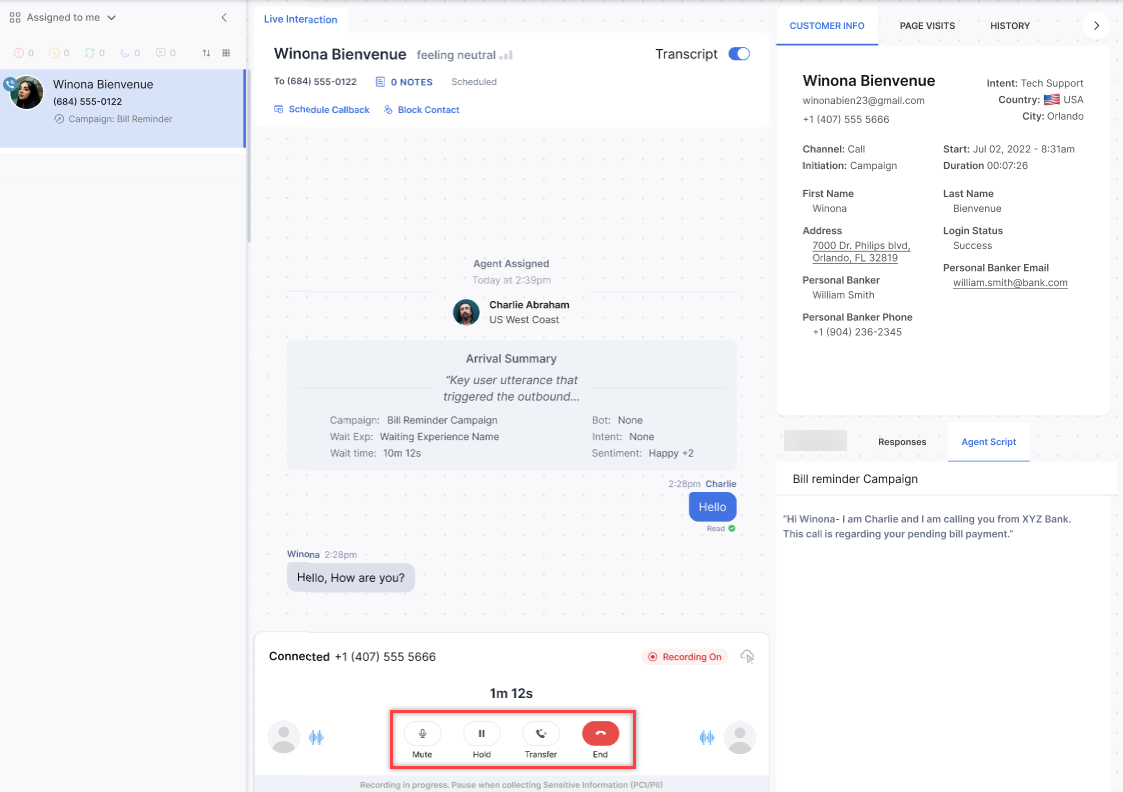
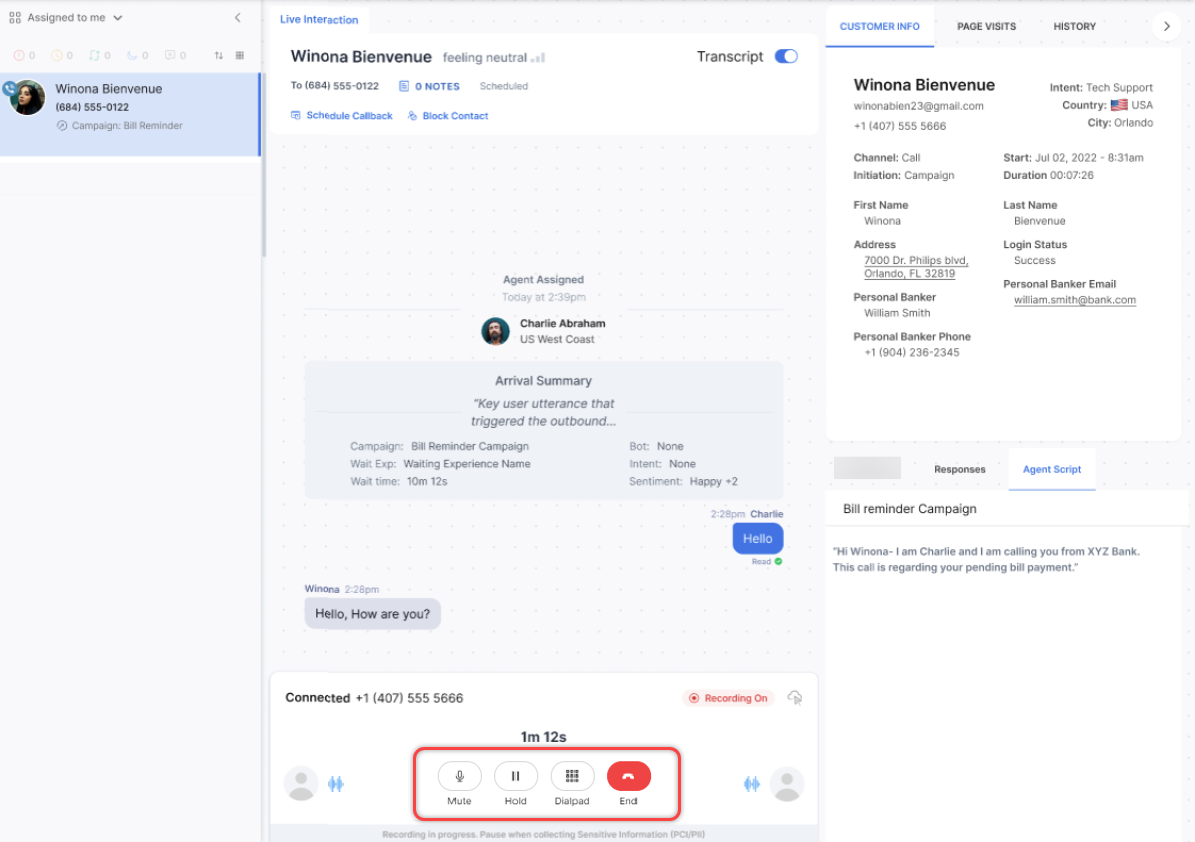
voice campaign updated

diff --git a/docs/xo/contactcenter/campaigns/campaign-management/voice-campaigns.md b/docs/xo/contactcenter/campaigns/campaign-management/voice-campaigns.md
@@ -8,7 +8,7 @@ You can access Campaigns by going to **Contact Center AI** > **Campaigns** > **P
 ## Voice Campaigns
 
 The following details of the voice campaigns are shown in a table:
-<img src="../images/campaigns-top-panel.png" alt="Campaigns Table Top Panel" title="Campaigns Table Top Panel" style="border: 1px solid gray; zoom:100%;">
+<img src="../images/campaigns-top-panel.png" alt="Campaigns Table Top Panel" title="Campaigns Table Top Panel" style="border: 1px solid gray; zoom:80%;">
 
 * **Campaign** - Campaign name and Type.
 * **Actions** - Play/Pause/Replay, Stop, Edit, Clone campaign.
@@ -39,13 +39,15 @@ Campaign managers can customize the dialing pace, allowing them to set the numbe
 To create a campaign when Agentless Dialing Mode is selected:
 
 * Select the **Start Flow** associated with the campaign. [Learn more](../../../flows/create-flows.md#the-start-flows).
-<img src="../images/start-flow.png" alt="Start Flow" title="Start Flow" style="border: 1px solid gray; zoom:100%;">
+<img src="../images/start-flow.png" alt="Start Flow" title="Start Flow" style="border: 1px solid gray; zoom:70%;">
 
     !!! Note
 
         * You can turn on Answering Machine Detection toggle if you want the system to determine whether the outbound call was received by an answering machine.
 
         * Using the agentless dialer, you can configure the [Automation Node](../../../flows/node-types/automation.md) making this dialer a differentiator from our competitors. 
+
+## Auto Dialers
 
 ### Progressive Dialer
 
@@ -58,18 +60,18 @@ The dialer efficiently manages lead allocation based on agent availability. It t
 To create a campaign when Progressive Dialing Mode is selected:
 
 * Select the **Queue** to which the calls will be routed. [Learn more](../../routing/queues/queue-management.md)  
-<img src="../images/select-queue.png" alt="Select Queue" title="Select Queue" style="border: 1px solid gray; zoom:100%;">
+<img src="../images/select-queue.png" alt="Select Queue" title="Select Queue" style="border: 1px solid gray; zoom:70%;">
 
     !!! Note
 
         You can turn on Answering Machine Detection toggle if you want the system to determine whether the outbound call was received by an answering machine.
 
-Progressive Dialer Call Handling
+#### Progressive Dialer Call Handling
 
 Once the dialer selects a contact from the list, it dials the number and upon successful connection with the contact, the interaction is assigned to an agent. The CUSTOMER INFO widget displays the customer's information. the interaction appears on the [Conversation Tray](../../../console/conversation-tray.md) along with the campaign name.  
 <img src="../images/dialing.png" alt="Dialing" title="Dialing" style="border: 1px solid gray; zoom:60%;">
 
-During the call the agent can Mute, place the call on Hold, Transfer, or end the interaction.  
+During the call the agent can Mute, place the call on Hold, or end the interaction.  
 <img src="../images/call-connected.png" alt="Call Connected" title="Call Connected" style="border: 1px solid gray; zoom:60%;">
 
 Dispositions are displayed to the agent when the call ends.  
@@ -104,7 +106,7 @@ To create a campaign when Preview Dialing Mode is selected:
 The agent is presented with one contact with an option for the Agent to Dial the number or Skip. Agents have a default 30-second timer to either dial or skip the call. If the agent dials within 30 seconds, the call is dialed to the contact. If the agent skips within 30 seconds, the interaction is removed from the agent and reassigned. Skipped contacts follow the retry logic based on the maximum attempts configured. The maximum number of skips allowed per agent can be configured for each campaign. Once the skip limit is reached, the skip button will no longer be available for that campaign instance. If the agent neither dials nor skips within the 30-second window, the call will be automatically dialed. The CUSTOMER INFO widget displays the customer's information. The interaction appears on the [Conversation Tray](../../../console/conversation-tray.md) along with the campaign name from which the call or contact is generated.  
 <img src="../images/preview-call.png" alt="Preview Call" title="Preview Call" style="border: 1px solid gray; zoom:70%;">
 
-Once an agent dials a number, that number becomes unavailable to other agents. When a call is connected, the number is not dialed again for the duration of the campaign. During the call the agent can Mute, place the call on Hold, Transfer, or end the interaction. All outbound calls are recorded in the same way as inbound calls to ensure quality and compliance.  
+Once an agent dials a number, that number becomes unavailable to other agents. When a call is connected, the number is not dialed again for the duration of the campaign. During the call the agent can Mute, place the call on Hold, or end the interaction. All outbound calls are recorded in the same way as inbound calls to ensure quality and compliance.  
 <img src="../images/call-options.png" alt="Call Options" title="Call Options" style="border: 1px solid gray; zoom:70%;">
 
 Dispositions are displayed to the agent when the call ends.  
@@ -121,13 +123,13 @@ Steps to create Voice campaigns:
 
 2. The **New Voice Campaign** dialog box is displayed. Under the **General** tab, enter the following details:
     * **Campaign Name**: Enter a name for the campaign.
-    <img src="../images/campaign-name.png" alt="Campaign Name" title="Campaign Name" style="border: 1px solid gray; zoom:100%;">
+    <img src="../images/campaign-name.png" alt="Campaign Name" title="Campaign Name" style="border: 1px solid gray; zoom:80%;">
     * **Description**: A description of the campaign.
-    <img src="../images/description.png" alt="Campaign Description" title="Campaign Description" style="border: 1px solid gray; zoom:100%;">
+    <img src="../images/description.png" alt="Campaign Description" title="Campaign Description" style="border: 1px solid gray; zoom:80%;">
     * **Contact Lists**: Select the **Contact Lists** that will be dialed, for the campaign from the drop-down list and then click **Done**.
     <img src="../images/contact-list.png" alt="Select Contact Lists" title="Select Contact Lists" style="border: 1px solid gray; zoom:100%;">
     * Select the **DNC List** from the drop-down.
-    <img src="../images/dnc-list.png" alt="DNC List" title="DNC List" style="border: 1px solid gray; zoom:100%;">
+    <img src="../images/dnc-list.png" alt="DNC List" title="DNC List" style="border: 1px solid gray; zoom:80%;">
 
         !!! Notes
 
@@ -135,23 +137,23 @@ Steps to create Voice campaigns:
             * The contact list is automatically scrubbed against the DNC list after the Campaign is saved.
 
     * Select the **Priority** from the drop-down list.
-    <img src="../priority-list.png" alt="Priority" title="Priority" style="border: 1px solid gray; zoom:100%;">
+    <img src="../priority-list.png" alt="Priority" title="Priority" style="border: 1px solid gray; zoom:80%;">
     * Select the **Dialing Mode** from the drop-down list.
-    <img src="../images/dialing-mode.png" alt="Dialing Mode" title="Dialing Mode" style="border: 1px solid gray; zoom:100%;">
+    <img src="../images/dialing-mode.png" alt="Dialing Mode" title="Dialing Mode" style="border: 1px solid gray; zoom:80%;">
 
 3. Under the **Outreach Strategy** tab, enter the following details:
     * **Caller ID**: Select the caller ID to be displayed for the campaign.
     <img src="../images/caller-id.png" alt="Caller ID" title="Caller ID" style="border: 1px solid gray; zoom:100%;">
     * **Dialing Order**: Choose the order of dialing the phone numbers.
-    <img src="../images/dialing-order.png" alt="Dialing Order" title="Dialing Order" style="border: 1px solid gray; zoom:100%;">
+    <img src="../images/dialing-order.png" alt="Dialing Order" title="Dialing Order" style="border: 1px solid gray; zoom:80%;">
     * **Max Attempts Per Contact**: Enter the count for the maximum number of attempts by the dialer to call each phone number in the campaign.
-    <img src="../images/max-attempts-per-contact.png" alt="Max Attempts Per Contact" title="Max Attempts Per Contact" style="border: 1px solid gray; zoom:100%;">
+    <img src="../images/max-attempts-per-contact.png" alt="Max Attempts Per Contact" title="Max Attempts Per Contact" style="border: 1px solid gray; zoom:80%;">
     * **Default Retry Period**: Select the retry duration (in minutes) in case of an unsuccessful connection with a contact.
-    <img src="../images/default-retry-period.png" alt="Default Retry Period" title="Defult Retry Period" style="border: 1px solid gray; zoom:100%;">
+    <img src="../images/default-retry-period.png" alt="Default Retry Period" title="Defult Retry Period" style="border: 1px solid gray; zoom:80%;">
     * **Max Ring Time**: Select the duration (in seconds) that a call will ring until it is disconnected.
-    <img src="../images/max-ring-time.png" alt="Max Ring Time" title="Max Ring Time" style="border: 1px solid gray; zoom:100%;">
+    <img src="../images/max-ring-time.png" alt="Max Ring Time" title="Max Ring Time" style="border: 1px solid gray; zoom:80%;">
     * **Contactable Timings**: Add the contactable timings (day of the week/time) when the dialer will dial the calls.
-    <img src="../images/contactable-timings.png" alt="Contactable Timings" title="Contactable Timings" style="border: 1px solid gray; zoom:100%;">
+    <img src="../images/contactable-timings.png" alt="Contactable Timings" title="Contactable Timings" style="border: 1px solid gray; zoom:80%;">
 
         !!! Note
 
@@ -166,13 +168,13 @@ Scheduling allows precise control over when your messages will be delivered. You
 Steps to schedule a Campaign:
 
 1. Click the **Schedule** tab and turn on the **Schedule Campaign** toggle.
-<img src="../images/schedule-campaign-toggle.png" alt="Schedule campaign Toggle" title="Schedule Campaign Toggle" style="border: 1px solid gray; zoom:100%;">
+<img src="../images/schedule-campaign-toggle.png" alt="Schedule campaign Toggle" title="Schedule Campaign Toggle" style="border: 1px solid gray; zoom:80%;">
 
 2. Select the campaign **Start Date & Time**. **End Date & Time** is optional.
-<img src="../images/start-and-end-time.png" alt="Start & End time" title="Start & End Time" style="border: 1px solid gray; zoom:100%;">
+<img src="../images/start-and-end-time.png" alt="Start & End time" title="Start & End Time" style="border: 1px solid gray; zoom:80%;">
 
 3. Select the **Time Zone** in which the campaign will be dialed.
-<img src="../images/timezone-dropdown.png" alt="Timezone" title="Timezone" style="border: 1px solid gray; zoom:100%;">
+<img src="../images/timezone-dropdown.png" alt="Timezone" title="Timezone" style="border: 1px solid gray; zoom:80%;">
 
 4. Turn on the Recurrence toggle if you want the campaign to recur at defined intervals. You can select from the following options:
     1. Daily,
@@ -189,7 +191,7 @@ Steps to schedule a Campaign:
 
 5. Turning on the Allow Recurrence Precedence toggle will give the recurrence start and end time precedence over Contactable timings.
 For example, if Contactable Timings are 9:00 AM to 6:00 PM but the user selects Recurrence Start Time as 8:00 AM, the campaign will start contacting from 8:00 AM.
-<img src="../images/allow-recurrence-precedence.png" alt="Allow Recurrence Precedence" title="Allow Recurrence Precedence" style="border: 1px solid gray; zoom:100%;">
+<img src="../images/allow-recurrence-precedence.png" alt="Allow Recurrence Precedence" title="Allow Recurrence Precedence" style="border: 1px solid gray; zoom:80%;">
 
 6. Click **Save**. A campaign is created as per the configured schedule.
 
@@ -206,10 +208,10 @@ For example, if Contactable Timings are 9:00 AM to 6:00 PM but the user selects 
 ### Stop a Scheduled Campaign
 
 Click the **Stop** button under actions. Stopping a scheduled campaign will end the instance of that campaign.
-<img src="../images/stop-scheduled-campaign.png" alt="Stop Button" title="Stop Button" style="border: 1px solid gray; zoom:100%;">
+<img src="../images/stop-scheduled-campaign.png" alt="Stop Button" title="Stop Button" style="border: 1px solid gray; zoom:80%;">
 
 A confirmation message is displayed. Click **Stop**.
-<img src="../images/stop-scheduled-campaign-confirmation.png" alt="Stop Scheduled campaign Confirmation" title="Stop Scheduled Campaign Confirmation" style="border: 1px solid gray; zoom:100%;">
+<img src="../images/stop-scheduled-campaign-confirmation.png" alt="Stop Scheduled campaign Confirmation" title="Stop Scheduled Campaign Confirmation" style="border: 1px solid gray; zoom:80%;">
 
 ### Edit a Voice Campaign
 
@@ -218,10 +220,10 @@ Editing a voice campaign allows you to make changes to the campaign as per your 
 Steps to edit a campaign:
 
 1. Click the **Ellipsis** (**⋮**) icon beside the campaign name and click **Edit**.
-<img src="../images/edit-campaign-button.png" alt="Edit Campaign Button" title="Edit Campaign Button" style="border: 1px solid gray; zoom:100%;">
+<img src="../images/edit-campaign-button.png" alt="Edit Campaign Button" title="Edit Campaign Button" style="border: 1px solid gray; zoom:80%;">
 
 2. A pop-up window is displayed. Do the required changes and click **Save**.
-<img src="../images/edit-campaign-window.png" alt="Edit and Save Campaign" title="Edit and save Campaign" style="border: 1px solid gray; zoom:100%;">
+<img src="../images/edit-campaign-window.png" alt="Edit and Save Campaign" title="Edit and save Campaign" style="border: 1px solid gray; zoom:80%;">
 
     !!! Note
 
@@ -249,10 +251,10 @@ Stopping a voice campaign resets the data, and a new instance of the campaign is
 Steps to stop a campaign:
 
 1. Click the **Stop** button under **ACTIONS** for the campaign you want to stop.
-<img src="../images/stop-campaign-button.png" alt="Stop Campaign Button" title="Stop Campaign Button" style="border: 1px solid gray; zoom:100%;">
+<img src="../images/stop-campaign-button.png" alt="Stop Campaign Button" title="Stop Campaign Button" style="border: 1px solid gray; zoom:80%;">
 
 2. A **Stop Campaign** confirmation pop-up window is displayed. Click **Stop**.
-<img src="../images/stop-campaign-confirmation.png" alt="Stop Campaign Confirmation" title="Stop Campaign Confirmation" style="border: 1px solid gray; zoom:100%;">
+<img src="../images/stop-campaign-confirmation.png" alt="Stop Campaign Confirmation" title="Stop Campaign Confirmation" style="border: 1px solid gray; zoom:80%;">
 
 ### Delete a Voice Campaign
 
@@ -261,15 +263,15 @@ You can delete a voice campaign if the campaign has served its purpose or is no 
 Steps to delete a campaign:
 
 1. Click the **Ellipsis**(**⋮**) icon beside the campaign name and click **Delete**.
-<img src="../images/delete-campaign-button.png" alt="Delete Campaign Button" title="Delete Campaign Button" style="border: 1px solid gray; zoom:100%;">
+<img src="../images/delete-campaign-button.png" alt="Delete Campaign Button" title="Delete Campaign Button" style="border: 1px solid gray; zoom:80%;">
 
 2. A **Delete Campaign** confirmation pop-up window is displayed. Click **Delete**.
-<img src="../images/delete-campaign-confirmation.png" alt="Delete Campaign Confirmation" title="Delete Campaign Confirmation" style="border: 1px solid gray; zoom:100%;">
+<img src="../images/delete-campaign-confirmation.png" alt="Delete Campaign Confirmation" title="Delete Campaign Confirmation" style="border: 1px solid gray; zoom:80%;">
 3. The campaign is deleted.
 
 ### Run Voice Campaigns
 
 You can run a voice campaign by clicking the **Play** button.
-<img src="../images/run-campaign-button.png" alt="Run Campaign" title="Run Campaign" style="border: 1px solid gray; zoom:100%;">
+<img src="../images/run-campaign-button.png" alt="Run Campaign" title="Run Campaign" style="border: 1px solid gray; zoom:80%;">
 
 When the campaign runs, you can pause or stop it. You can also rerun a completed campaign.

diff --git a/docs/xo/contactcenter/campaigns/frequently-asked-questions.md b/docs/xo/contactcenter/campaigns/frequently-asked-questions.md
@@ -67,3 +67,7 @@
     **Execution in this case**: 50% of calls will be picked from campaign 1 and 50% of calls will be picked from campaign 2.
 
     Dialer will randomly dial from the 50% of calls from campaign 1 and 50% of calls from campaign 2.
+
+* **Can agents transfer a call to another agent or to a queue during outbound campaigns with auto-dialers (Progressive and Preview)?**
+
+    No, agents cannot transfer a call either to another agent or to a queue during outbound campaigns with auto-dialers.
